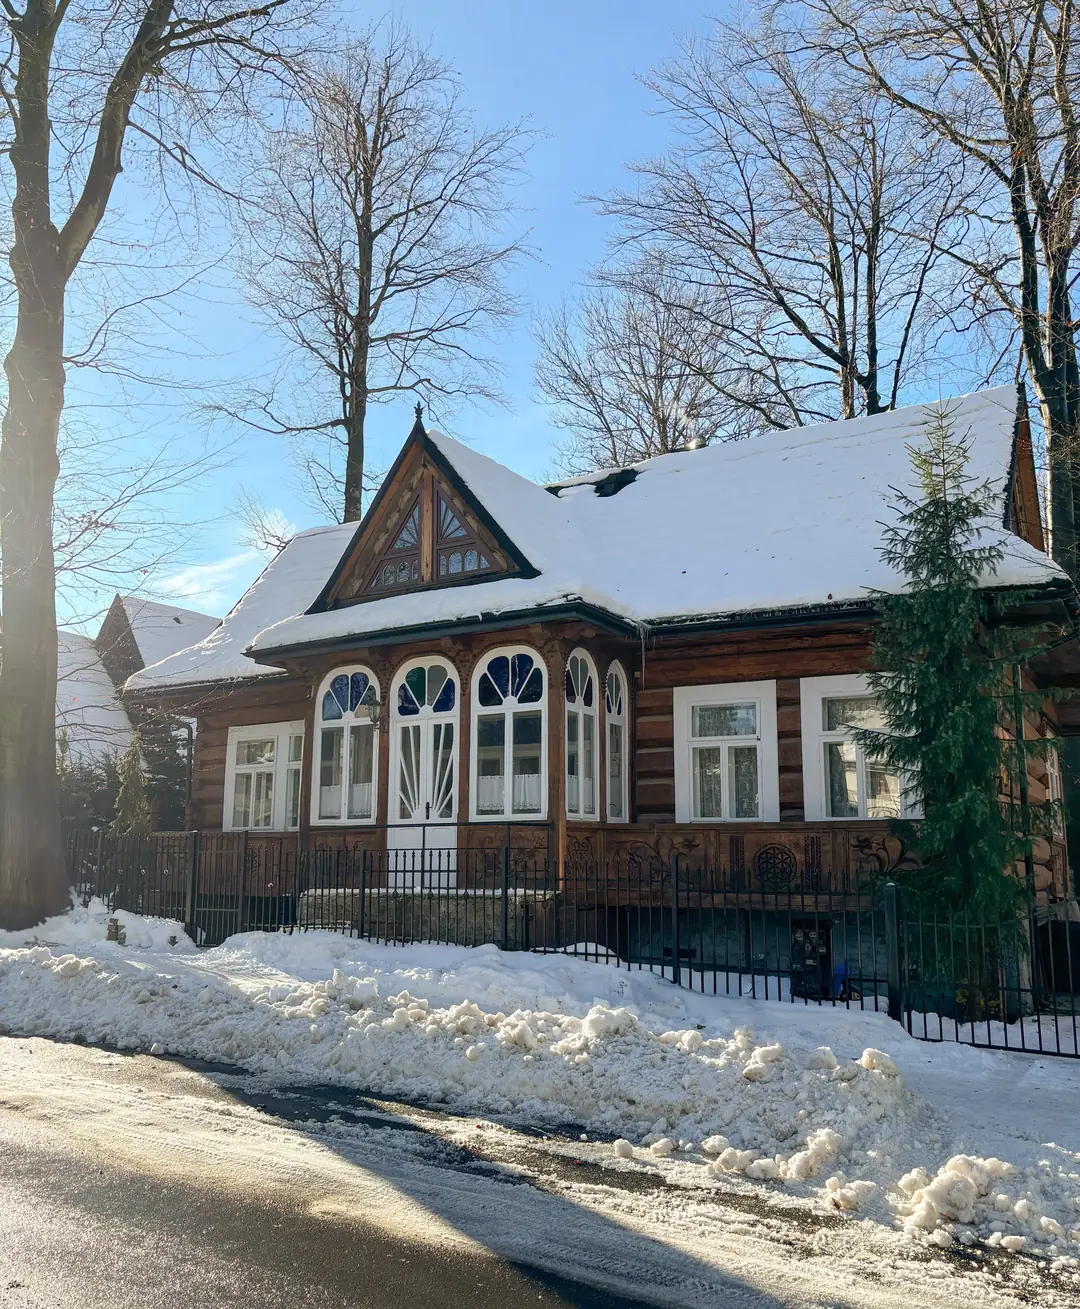
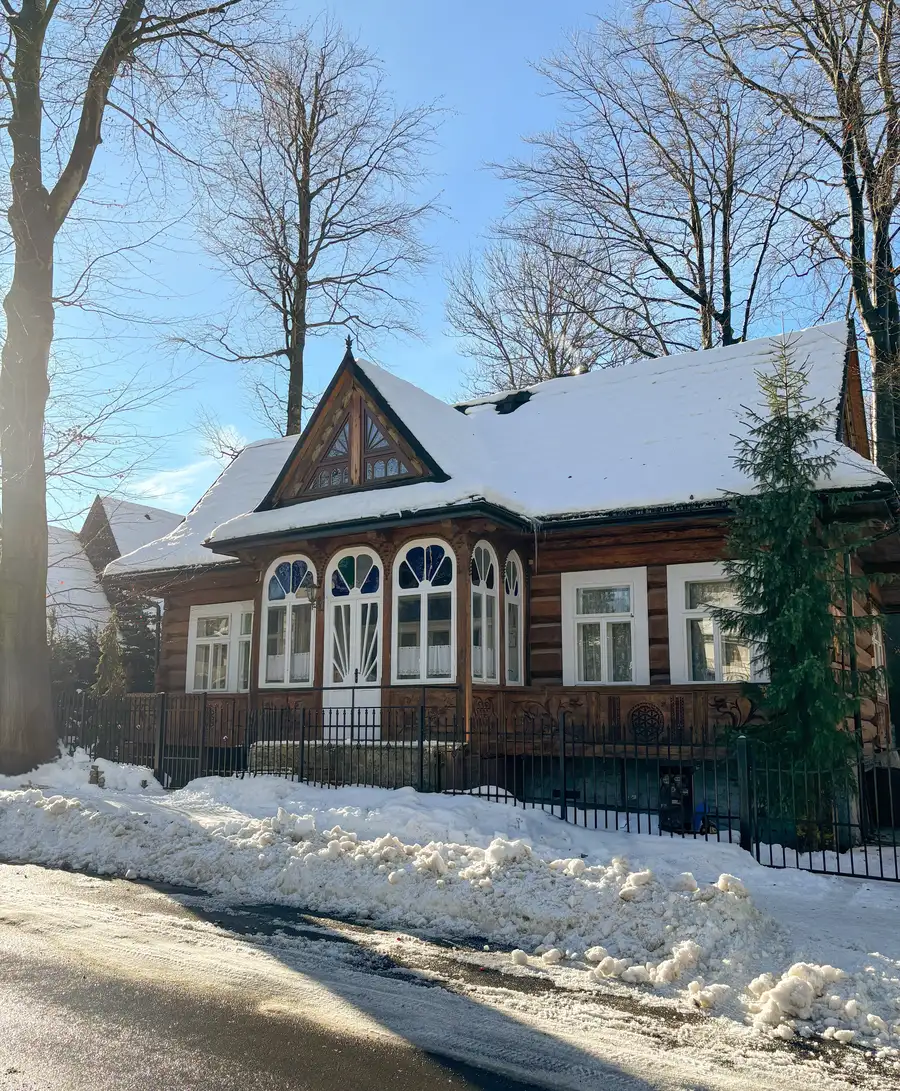
Address second PageSpeed round: async fonts, responsive img srcset, reflow fix
- Load Google Fonts CSS non-blocking via preload+swap pattern, with
  noscript fallback, to cut render-blocking time on the critical path
- Add srcset/sizes to the 6 homepage gallery tiles and the About-section
  collage image so mobile viewports fetch the existing 480w thumb/collage
  variant instead of the full 960w/707w one
- Recompress hero-villa-mobile.webp at 900w/q60 (192KB, down from 297KB)
- Batch the nav scroll-class toggle through requestAnimationFrame to fix
  the forced synchronous reflow flagged at main.js:4

diff --git a/index.html b/index.html
@@ -8,10 +8,12 @@
 <link rel="preconnect" href="https://fonts.googleapis.com">
 <link rel="preconnect" href="https://fonts.gstatic.com" crossorigin>
 <link rel="preconnect" href="https://client58297.idobooking.com">
-<link href="https://fonts.googleapis.com/css2?family=Marcellus&family=Cormorant+Garamond:ital,wght@0,300;0,400;0,500;0,600;1,300;1,400&family=Jost:wght@300;400;500;600&display=swap" rel="stylesheet">
+<link rel="preload" as="style" href="https://fonts.googleapis.com/css2?family=Marcellus&family=Cormorant+Garamond:ital,wght@0,300;0,400;0,500;0,600;1,300;1,400&family=Jost:wght@300;400;500;600&display=swap">
+<link href="https://fonts.googleapis.com/css2?family=Marcellus&family=Cormorant+Garamond:ital,wght@0,300;0,400;0,500;0,600;1,300;1,400&family=Jost:wght@300;400;500;600&display=swap" rel="stylesheet" media="print" onload="this.media='all'">
+<noscript><link href="https://fonts.googleapis.com/css2?family=Marcellus&family=Cormorant+Garamond:ital,wght@0,300;0,400;0,500;0,600;1,300;1,400&family=Jost:wght@300;400;500;600&display=swap" rel="stylesheet"></noscript>
 <link rel="stylesheet" href="style.css">
 <link rel="preload" as="image" href="hero-villa-desktop.webp"
-      imagesrcset="hero-villa-mobile.webp 1080w, hero-villa-desktop.webp 2000w"
+      imagesrcset="hero-villa-mobile.webp 900w, hero-villa-desktop.webp 2000w"
       imagesizes="100vw" fetchpriority="high">
 <script defer src="https://client58297.idobooking.com/widget/script/loadScriptsForOwnPage?1779204403"></script>
 <script defer src="https://kit.fontawesome.com/2c0654d9c2.js" crossorigin="anonymous"></script>
@@ -172,7 +174,7 @@
       </div>
       <div class="about-image-wrap">
         <div class="about-image">
-          <img src="willamaciejowkazakopanecollage.webp" width="707" height="936" alt="Willa Maciejówka — 1979 National Centre heritage registration card" loading="lazy" decoding="async">
+          <img src="willamaciejowkazakopanecollage.webp" srcset="willamaciejowkazakopanecollage-480.webp 480w, willamaciejowkazakopanecollage.webp 707w" sizes="(max-width: 767px) 100vw, 560px" width="707" height="936" alt="Willa Maciejówka — 1979 National Centre heritage registration card" loading="lazy" decoding="async">
         </div>
       </div>
     </div>
@@ -189,22 +191,22 @@
     </div>
     <div class="gallery-grid">
       <div class="g g-1">
-        <img src="photos/feature/dom%20na%20wynajem%20zakopane%20oranzeria.webp" width="960" height="1280" alt="Conservatory with dining table" loading="eager" fetchpriority="high" decoding="async">
+        <img src="photos/feature/dom%20na%20wynajem%20zakopane%20oranzeria.webp" srcset="photos/thumb/dom%20na%20wynajem%20zakopane%20oranzeria.webp 480w, photos/feature/dom%20na%20wynajem%20zakopane%20oranzeria.webp 960w" sizes="(max-width: 640px) 50vw, (max-width: 1024px) 33vw, 25vw" width="960" height="1280" alt="Conservatory with dining table" loading="eager" fetchpriority="high" decoding="async">
       </div>
       <div class="g g-2">
-        <img src="photos/feature/willa%20maciej%C3%B3wka%20zakopane%20sypialnia.webp" width="960" height="1280" alt="Bedroom with traditional triangular windows" loading="lazy" decoding="async">
+        <img src="photos/feature/willa%20maciej%C3%B3wka%20zakopane%20sypialnia.webp" srcset="photos/thumb/willa%20maciej%C3%B3wka%20zakopane%20sypialnia.webp 480w, photos/feature/willa%20maciej%C3%B3wka%20zakopane%20sypialnia.webp 960w" sizes="(max-width: 640px) 50vw, (max-width: 1024px) 33vw, 25vw" width="960" height="1280" alt="Bedroom with traditional triangular windows" loading="lazy" decoding="async">
       </div>
       <div class="g g-3">
-        <img src="photos/feature/luxury%20villa%20zakopane%20bathroom.webp" width="960" height="1280" alt="Bathroom" loading="lazy" decoding="async">
+        <img src="photos/feature/luxury%20villa%20zakopane%20bathroom.webp" srcset="photos/thumb/luxury%20villa%20zakopane%20bathroom.webp 480w, photos/feature/luxury%20villa%20zakopane%20bathroom.webp 960w" sizes="(max-width: 640px) 50vw, (max-width: 1024px) 33vw, 25vw" width="960" height="1280" alt="Bathroom" loading="lazy" decoding="async">
       </div>
       <div class="g g-4">
-        <img src="photos/feature/dom%20na%20wynajem%20zakopane%20sypialnia.webp" width="960" height="1280" alt="Bedroom — double bed" loading="lazy" decoding="async">
+        <img src="photos/feature/dom%20na%20wynajem%20zakopane%20sypialnia.webp" srcset="photos/thumb/dom%20na%20wynajem%20zakopane%20sypialnia.webp 480w, photos/feature/dom%20na%20wynajem%20zakopane%20sypialnia.webp 960w" sizes="(max-width: 640px) 50vw, (max-width: 1024px) 33vw, 25vw" width="960" height="1280" alt="Bedroom — double bed" loading="lazy" decoding="async">
       </div>
       <div class="g g-5">
-        <img src="photos/feature/vacation%20home%20zakopane%20kitchen.webp" width="960" height="720" alt="Fully-equipped kitchen" loading="lazy" decoding="async">
+        <img src="photos/feature/vacation%20home%20zakopane%20kitchen.webp" srcset="photos/thumb/vacation%20home%20zakopane%20kitchen.webp 480w, photos/feature/vacation%20home%20zakopane%20kitchen.webp 960w" sizes="(max-width: 640px) 100vw, (max-width: 1024px) 66vw, 50vw" width="960" height="720" alt="Fully-equipped kitchen" loading="lazy" decoding="async">
       </div>
       <div class="g g-6">
-        <img src="photos/feature/willa%20maciej%C3%B3wka%20zakopane%20dom%20fasada%201.webp" width="960" height="720" alt="Willa Maciejówka — traditional Zakopane villa exterior" loading="lazy" decoding="async">
+        <img src="photos/feature/willa%20maciej%C3%B3wka%20zakopane%20dom%20fasada%201.webp" srcset="photos/thumb/willa%20maciej%C3%B3wka%20zakopane%20dom%20fasada%201.webp 480w, photos/feature/willa%20maciej%C3%B3wka%20zakopane%20dom%20fasada%201.webp 960w" sizes="(max-width: 640px) 100vw, 100vw" width="960" height="720" alt="Willa Maciejówka — traditional Zakopane villa exterior" loading="lazy" decoding="async">
       </div>
     </div>
     <div class="gallery-cta">

diff --git a/index-pl.html b/index-pl.html
@@ -8,10 +8,12 @@
 <link rel="preconnect" href="https://fonts.googleapis.com">
 <link rel="preconnect" href="https://fonts.gstatic.com" crossorigin>
 <link rel="preconnect" href="https://client58297.idobooking.com">
-<link href="https://fonts.googleapis.com/css2?family=Marcellus&family=Cormorant+Garamond:ital,wght@0,300;0,400;0,500;0,600;1,300;1,400&family=Jost:wght@300;400;500;600&display=swap" rel="stylesheet">
+<link rel="preload" as="style" href="https://fonts.googleapis.com/css2?family=Marcellus&family=Cormorant+Garamond:ital,wght@0,300;0,400;0,500;0,600;1,300;1,400&family=Jost:wght@300;400;500;600&display=swap">
+<link href="https://fonts.googleapis.com/css2?family=Marcellus&family=Cormorant+Garamond:ital,wght@0,300;0,400;0,500;0,600;1,300;1,400&family=Jost:wght@300;400;500;600&display=swap" rel="stylesheet" media="print" onload="this.media='all'">
+<noscript><link href="https://fonts.googleapis.com/css2?family=Marcellus&family=Cormorant+Garamond:ital,wght@0,300;0,400;0,500;0,600;1,300;1,400&family=Jost:wght@300;400;500;600&display=swap" rel="stylesheet"></noscript>
 <link rel="stylesheet" href="style.css">
 <link rel="preload" as="image" href="hero-villa-desktop.webp"
-      imagesrcset="hero-villa-mobile.webp 1080w, hero-villa-desktop.webp 2000w"
+      imagesrcset="hero-villa-mobile.webp 900w, hero-villa-desktop.webp 2000w"
       imagesizes="100vw" fetchpriority="high">
 <script defer src="https://client58297.idobooking.com/widget/script/loadScriptsForOwnPage?1779204403"></script>
 <script defer src="https://kit.fontawesome.com/2c0654d9c2.js" crossorigin="anonymous"></script>
@@ -172,7 +174,7 @@
       </div>
       <div class="about-image-wrap">
         <div class="about-image">
-          <img src="willamaciejowkazakopanecollage.webp" width="707" height="936" alt="Willa Maciejówka — karta ewidencyjna z 1979 roku" loading="lazy" decoding="async">
+          <img src="willamaciejowkazakopanecollage.webp" srcset="willamaciejowkazakopanecollage-480.webp 480w, willamaciejowkazakopanecollage.webp 707w" sizes="(max-width: 767px) 100vw, 560px" width="707" height="936" alt="Willa Maciejówka — karta ewidencyjna z 1979 roku" loading="lazy" decoding="async">
         </div>
       </div>
     </div>
@@ -189,22 +191,22 @@
     </div>
     <div class="gallery-grid">
       <div class="g g-1">
-        <img src="photos/feature/dom%20na%20wynajem%20zakopane%20oranzeria.webp" width="960" height="1280" alt="Oranżeria ze stołem jadalnym" loading="eager" fetchpriority="high" decoding="async">
+        <img src="photos/feature/dom%20na%20wynajem%20zakopane%20oranzeria.webp" srcset="photos/thumb/dom%20na%20wynajem%20zakopane%20oranzeria.webp 480w, photos/feature/dom%20na%20wynajem%20zakopane%20oranzeria.webp 960w" sizes="(max-width: 640px) 50vw, (max-width: 1024px) 33vw, 25vw" width="960" height="1280" alt="Oranżeria ze stołem jadalnym" loading="eager" fetchpriority="high" decoding="async">
       </div>
       <div class="g g-2">
-        <img src="photos/feature/willa%20maciej%C3%B3wka%20zakopane%20sypialnia.webp" width="960" height="1280" alt="Sypialnia z tradycyjnymi trójkątnymi oknami" loading="lazy" decoding="async">
+        <img src="photos/feature/willa%20maciej%C3%B3wka%20zakopane%20sypialnia.webp" srcset="photos/thumb/willa%20maciej%C3%B3wka%20zakopane%20sypialnia.webp 480w, photos/feature/willa%20maciej%C3%B3wka%20zakopane%20sypialnia.webp 960w" sizes="(max-width: 640px) 50vw, (max-width: 1024px) 33vw, 25vw" width="960" height="1280" alt="Sypialnia z tradycyjnymi trójkątnymi oknami" loading="lazy" decoding="async">
       </div>
       <div class="g g-3">
-        <img src="photos/feature/luxury%20villa%20zakopane%20bathroom.webp" width="960" height="1280" alt="Łazienka" loading="lazy" decoding="async">
+        <img src="photos/feature/luxury%20villa%20zakopane%20bathroom.webp" srcset="photos/thumb/luxury%20villa%20zakopane%20bathroom.webp 480w, photos/feature/luxury%20villa%20zakopane%20bathroom.webp 960w" sizes="(max-width: 640px) 50vw, (max-width: 1024px) 33vw, 25vw" width="960" height="1280" alt="Łazienka" loading="lazy" decoding="async">
       </div>
       <div class="g g-4">
-        <img src="photos/feature/dom%20na%20wynajem%20zakopane%20sypialnia.webp" width="960" height="1280" alt="Sypialnia — podwójne łóżko" loading="lazy" decoding="async">
+        <img src="photos/feature/dom%20na%20wynajem%20zakopane%20sypialnia.webp" srcset="photos/thumb/dom%20na%20wynajem%20zakopane%20sypialnia.webp 480w, photos/feature/dom%20na%20wynajem%20zakopane%20sypialnia.webp 960w" sizes="(max-width: 640px) 50vw, (max-width: 1024px) 33vw, 25vw" width="960" height="1280" alt="Sypialnia — podwójne łóżko" loading="lazy" decoding="async">
       </div>
       <div class="g g-5">
-        <img src="photos/feature/vacation%20home%20zakopane%20kitchen.webp" width="960" height="720" alt="W pełni wyposażona kuchnia" loading="lazy" decoding="async">
+        <img src="photos/feature/vacation%20home%20zakopane%20kitchen.webp" srcset="photos/thumb/vacation%20home%20zakopane%20kitchen.webp 480w, photos/feature/vacation%20home%20zakopane%20kitchen.webp 960w" sizes="(max-width: 640px) 100vw, (max-width: 1024px) 66vw, 50vw" width="960" height="720" alt="W pełni wyposażona kuchnia" loading="lazy" decoding="async">
       </div>
       <div class="g g-6">
-        <img src="photos/feature/willa%20maciej%C3%B3wka%20zakopane%20dom%20fasada%201.webp" width="960" height="720" alt="Willa Maciejówka — tradycyjna willa w Zakopanem" loading="lazy" decoding="async">
+        <img src="photos/feature/willa%20maciej%C3%B3wka%20zakopane%20dom%20fasada%201.webp" srcset="photos/thumb/willa%20maciej%C3%B3wka%20zakopane%20dom%20fasada%201.webp 480w, photos/feature/willa%20maciej%C3%B3wka%20zakopane%20dom%20fasada%201.webp 960w" sizes="(max-width: 640px) 100vw, 100vw" width="960" height="720" alt="Willa Maciejówka — tradycyjna willa w Zakopanem" loading="lazy" decoding="async">
       </div>
     </div>
     <div class="gallery-cta">

diff --git a/main.js b/main.js
@@ -1,7 +1,13 @@
 // ——— NAV SCROLL ———
 const nav = document.querySelector('.nav');
+let navScrollTicking = false;
 function updateNav() {
-  nav.classList.toggle('scrolled', window.scrollY > 40);
+  if (navScrollTicking) return;
+  navScrollTicking = true;
+  requestAnimationFrame(() => {
+    nav.classList.toggle('scrolled', window.scrollY > 40);
+    navScrollTicking = false;
+  });
 }
 window.addEventListener('scroll', updateNav, { passive: true });
 updateNav();
